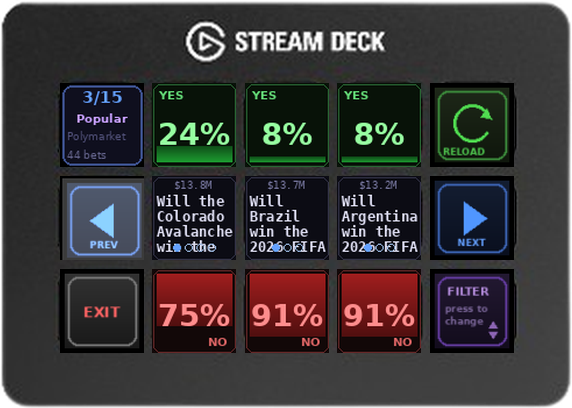
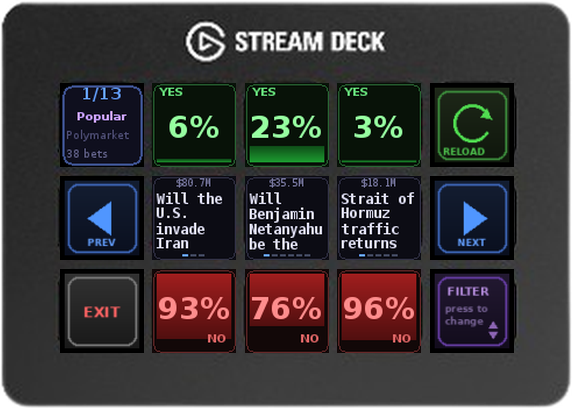
fix: restore polymarket bets and pagination indicators

diff --git a/deckmaster/internal/appplugins/polymarket.go b/deckmaster/internal/appplugins/polymarket.go
@@ -254,7 +254,7 @@ func fetchMarkets(force bool, query, tagID *string) []marketItem {
 	var fetchErr error
 
 	if tagID != nil && *tagID != "" {
-		u := fmt.Sprintf("%s/events?active=true&closed=false&tag_id=%s&limit=%d&order=volume_24hr&ascending=false",
+		u := fmt.Sprintf("%s/events?active=true&closed=false&tag_id=%s&limit=%d&order=volume24hr&ascending=false",
 			gammaAPIBase, url.QueryEscape(*tagID), totalFetch)
 		var events []struct {
 			Markets []map[string]any `json:"markets"`
@@ -278,7 +278,7 @@ func fetchMarkets(force bool, query, tagID *string) []marketItem {
 			}
 		}
 	} else {
-		u := fmt.Sprintf("%s/markets?active=true&closed=false&limit=%d&order=volume_24hr&ascending=false",
+		u := fmt.Sprintf("%s/markets?active=true&closed=false&limit=%d&order=volume24hr&ascending=false",
 			gammaAPIBase, totalFetch)
 		fetchErr = fetchJSON(u, &rawMarkets)
 	}
@@ -491,17 +491,28 @@ func renderPolymarketTextSlot(m *marketItem, slot, frame int) string {
 	}
 
 	if totalSteps > 1 {
-		dotY := keySize - 11
-		dotR := 3
-		dotSpacing := 10
-		totalDotW := (totalSteps - 1) * dotSpacing
-		dotCXStart := (keySize - totalDotW) / 2
+		// Keep page indicators compact and below the text so they never obscure it.
+		lineWidth := 5
+		lineGap := 2
+		for totalSteps*lineWidth+(totalSteps-1)*lineGap > 56 && lineWidth > 1 {
+			lineWidth--
+		}
+		for totalSteps*lineWidth+(totalSteps-1)*lineGap > 56 && lineGap > 1 {
+			lineGap--
+		}
+		indicatorWidth := totalSteps*lineWidth + (totalSteps-1)*lineGap
+		startX := (keySize - indicatorWidth) / 2
+		indicatorY := keySize - 5
 		for i := 0; i < totalSteps; i++ {
-			cx := dotCXStart + i*dotSpacing
+			c := color.RGBA{R: 65, G: 72, B: 95, A: 255}
 			if i == currentStep {
-				fillCircle(img, cx, dotY, dotR, color.RGBA{R: 100, G: 160, B: 255, A: 255})
-			} else {
-				strokeCircle(img, cx, dotY, dotR, 1, color.RGBA{R: 150, G: 180, B: 220, A: 255})
+				c = color.RGBA{R: 100, G: 160, B: 255, A: 255}
+			}
+			x := startX + i*(lineWidth+lineGap)
+			for py := indicatorY; py < indicatorY+2; py++ {
+				for px := x; px < x+lineWidth; px++ {
+					blendPixel(img, px, py, c)
+				}
 			}
 		}
 	}
@@ -599,7 +610,7 @@ func buildCategories(s polymarketState, force bool) []categoryItem {
 	tagData := map[string]*tagStat{}
 
 	for offset := 0; offset < 1000; offset += 200 {
-		u := fmt.Sprintf("%s/events?active=true&closed=false&limit=200&offset=%d&order=volume_24hr&ascending=false",
+		u := fmt.Sprintf("%s/events?active=true&closed=false&limit=200&offset=%d&order=volume24hr&ascending=false",
 			gammaAPIBase, offset)
 		var events []struct {
 			Volume24hr any `json:"volume24hr"`

diff --git a/deckmaster/decks/polymarket/polymarket.py b/deckmaster/decks/polymarket/polymarket.py
@@ -140,7 +140,7 @@ def fetch_markets(force=False, query=None, tag_id=None):
     try:
         if tag_id:
             # Best method: filter events by tag_id, extract markets
-            url = f"{GAMMA_API}/events?active=true&closed=false&tag_id={tag_id}&limit={TOTAL_FETCH}&order=volume_24hr&ascending=false"
+            url = f"{GAMMA_API}/events?active=true&closed=false&tag_id={tag_id}&limit={TOTAL_FETCH}&order=volume24hr&ascending=false"
             req = urllib.request.Request(url, headers={"User-Agent": "StreamDeck/1.0"})
             resp = urllib.request.urlopen(req, timeout=10)
             events = json.loads(resp.read().decode())
@@ -160,7 +160,7 @@ def fetch_markets(force=False, query=None, tag_id=None):
                 for m in event.get("markets", []):
                     raw_markets.append(m)
         else:
-            url = f"{GAMMA_API}/markets?active=true&closed=false&limit={TOTAL_FETCH}&order=volume_24hr&ascending=false"
+            url = f"{GAMMA_API}/markets?active=true&closed=false&limit={TOTAL_FETCH}&order=volume24hr&ascending=false"
             req = urllib.request.Request(url, headers={"User-Agent": "StreamDeck/1.0"})
             resp = urllib.request.urlopen(req, timeout=10)
             raw_markets = json.loads(resp.read().decode())
@@ -439,7 +439,7 @@ def build_categories(state, force=False):
     try:
         tag_data = {}  # label -> {id, count, vol24h}
         for offset in range(0, 1000, 200):
-            url = f"{GAMMA_API}/events?active=true&closed=false&limit=200&offset={offset}&order=volume_24hr&ascending=false"
+            url = f"{GAMMA_API}/events?active=true&closed=false&limit=200&offset={offset}&order=volume24hr&ascending=false"
             req = urllib.request.Request(url, headers={"User-Agent": "StreamDeck/1.0"})
             resp = urllib.request.urlopen(req, timeout=15)
             events = json.loads(resp.read().decode())

diff --git a/deckmaster/decks/polymarket/polymarket-render-text.py b/deckmaster/decks/polymarket/polymarket-render-text.py
@@ -147,21 +147,21 @@ for line in visible:
     draw.text((x_offset, y), line, fill=(220, 220, 240), font=FONT)
     y += CHAR_H
 
-# Page dots
+# Compact page lines below the question text.
 if total_steps > 1:
-    dot_y = SIZE - 11
-    dot_r = 3  # radius
-    dot_spacing = 10
-    total_dot_w = (total_steps - 1) * dot_spacing
-    dot_cx_start = (SIZE - total_dot_w) // 2
+    line_width = 5
+    line_gap = 2
+    while total_steps * line_width + (total_steps - 1) * line_gap > 56 and line_width > 1:
+        line_width -= 1
+    while total_steps * line_width + (total_steps - 1) * line_gap > 56 and line_gap > 1:
+        line_gap -= 1
+    indicator_width = total_steps * line_width + (total_steps - 1) * line_gap
+    start_x = (SIZE - indicator_width) // 2
+    indicator_y = SIZE - 5
     for i in range(total_steps):
-        cx = dot_cx_start + i * dot_spacing
-        if i == current_step:
-            draw.ellipse([cx - dot_r, dot_y - dot_r, cx + dot_r, dot_y + dot_r],
-                         fill=(100, 160, 255))
-        else:
-            draw.ellipse([cx - dot_r, dot_y - dot_r, cx + dot_r, dot_y + dot_r],
-                         outline=(150, 180, 220), width=1)
+        color = (100, 160, 255) if i == current_step else (65, 72, 95)
+        x = start_x + i * (line_width + line_gap)
+        draw.rectangle([x, indicator_y, x + line_width - 1, indicator_y + 1], fill=color)
 
 path = os.path.join(TMP, f"text-{slot}.png")
 img.save(path)
